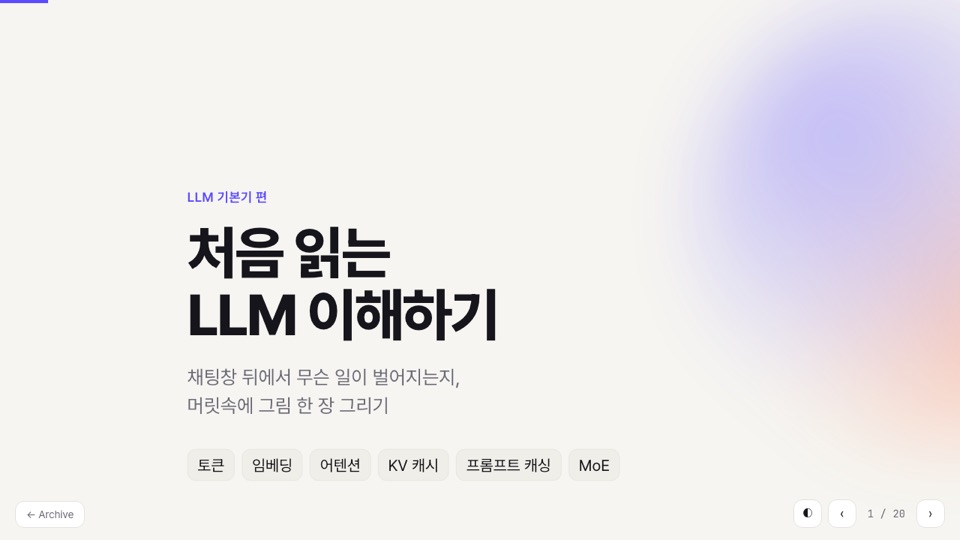
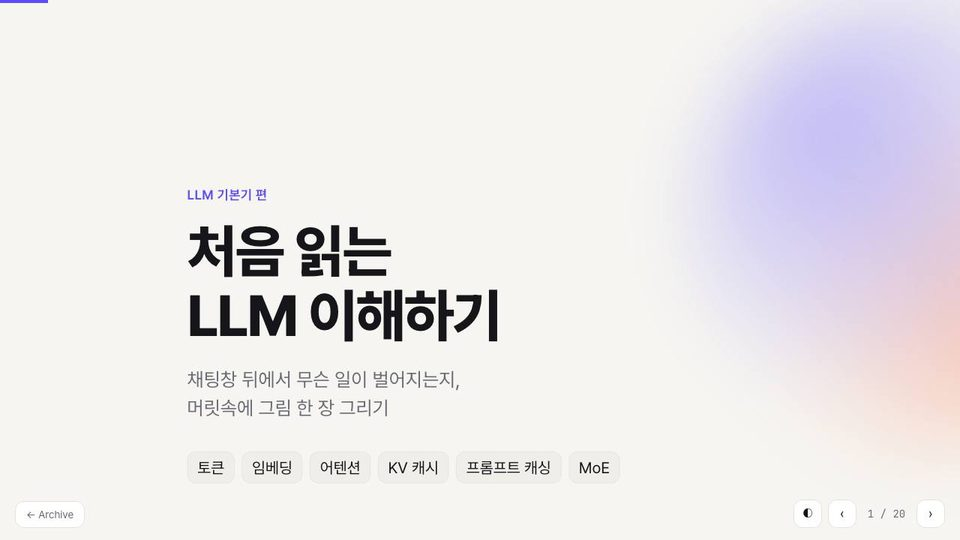
Paperlogy for LLM cover titles and all slide titles
LLM 이해하기 (스크롤형) cover title, and every h1/h2 in the three slide
decks (AI trends, LLM 이해하기, 처음 읽는 LLM 이해하기) now use Paperlogy
ExtraBold/Bold. Thumbnails regenerated.

diff --git a/llm-slides/index.html b/llm-slides/index.html
@@ -73,9 +73,14 @@ body { margin: 0; background: var(--bg); color: var(--ink); font-family: var(--b
 
 .kicker { font-family: var(--mono); font-size: 19px; color: var(--accent); letter-spacing: .06em; display: flex; align-items: center; gap: 14px; }
 .kicker b { font-weight: 600; padding: 4px 12px; border-radius: 999px; background: var(--accent-soft); }
-h1 { font-family: var(--display); font-size: 132px; line-height: 1.04; letter-spacing: -.045em; font-weight: 800; margin: 0; text-wrap: balance; }
-h2 { font-family: var(--display); font-size: 56px; line-height: 1.16; letter-spacing: -.032em; font-weight: 750; margin: 18px 0 0; text-wrap: balance; }
+/* slide titles: Paperlogy (SIL OFL, via jsDelivr/project noonnu) */
+@font-face { font-family: "Paperlogy"; font-weight: 700; font-style: normal; font-display: swap; src: url("https://cdn.jsdelivr.net/gh/projectnoonnu/2408-3@1.0/Paperlogy-7Bold.woff2") format("woff2"); }
+h1 { font-family: "Paperlogy", var(--display); font-size: 132px; line-height: 1.1; letter-spacing: -.03em; font-weight: 800; margin: 0; text-wrap: balance; }
+h2 { font-family: "Paperlogy", var(--display); font-size: 56px; line-height: 1.2; letter-spacing: -.025em; font-weight: 700; margin: 18px 0 0; text-wrap: balance; }
 h1 em, h2 em { font-style: normal; color: var(--accent); }
+/* cover title: Paperlogy ExtraBold (SIL OFL, via jsDelivr/project noonnu) */
+@font-face { font-family: "Paperlogy"; font-weight: 800; font-style: normal; font-display: swap; src: url("https://cdn.jsdelivr.net/gh/projectnoonnu/2408-3@1.0/Paperlogy-8ExtraBold.woff2") format("woff2"); }
+h1.cover-title { font-family: "Paperlogy", var(--display); letter-spacing: -.03em; line-height: 1.1; }
 p { margin: 0; }
 .lead { font-size: 28px; line-height: 1.6; color: var(--muted); margin-top: 22px; max-width: 1260px; }
 .lead strong, .body strong { color: var(--ink); font-weight: 700; }
@@ -490,7 +495,7 @@ td.note { color: var(--muted); font-size: 19px; }
 <section class="slide title-slide" data-notes="AI(Artificial Intelligence)를 매일 쓰는 분들이 자주 묻는 기본기 질문에서 출발합니다. 어려운 건 없고, 비유를 많이 쓰되 오해를 부를 곳에서는 한계도 같이 말합니다.">
   <div class="glow g1"></div><div class="glow g2"></div>
   <div class="kicker"><b>LLM (Large Language Model)</b>14 chapters</div>
-  <h1 style="margin-top:28px">LLM <em>이해하기</em></h1>
+  <h1 class="cover-title" style="margin-top:28px">LLM <em>이해하기</em></h1>
   <p class="lead">채팅창 뒤에서 무슨 일이 벌어지는지. Token부터 Embedding, Attention, KV (Key-Value) Cache, Prompt Caching, MoE (Mixture of Experts)까지</p>
   <div class="ticker" aria-hidden="true"><div class="ticker-in" id="ticker"></div></div>
 </section>

diff --git a/llm-guide/index.html b/llm-guide/index.html
@@ -105,7 +105,9 @@ body::before { content: ""; position: fixed; inset: 0 0 auto; height: env(safe-a
 .hero-in { max-width: 1200px; margin: 0 auto; padding-block: 64px 56px; display: grid; grid-template-columns: minmax(0, 1.05fr) minmax(0, 1fr); gap: 48px; align-items: center; }
 .eyebrow { font-family: var(--mono); font-size: 12px; letter-spacing: .06em; color: var(--accent); display: inline-flex; gap: 10px; align-items: center; flex-wrap: wrap; }
 .eyebrow i { width: 6px; height: 6px; border-radius: 50%; background: var(--accent); box-shadow: 0 0 0 4px var(--accent-soft); }
-.hero h1 { font-family: var(--display); font-size: clamp(44px, 7vw, 76px); line-height: 1.05; letter-spacing: -.04em; font-weight: 800; margin: 16px 0 16px; text-wrap: balance; }
+/* cover title: Paperlogy ExtraBold (SIL OFL, via jsDelivr/project noonnu) */
+@font-face { font-family: "Paperlogy"; font-weight: 800; font-style: normal; font-display: swap; src: url("https://cdn.jsdelivr.net/gh/projectnoonnu/2408-3@1.0/Paperlogy-8ExtraBold.woff2") format("woff2"); }
+.hero h1 { font-family: "Paperlogy", var(--display); font-size: clamp(44px, 7vw, 76px); line-height: 1.1; letter-spacing: -.03em; font-weight: 800; margin: 16px 0 16px; text-wrap: balance; }
 .hero h1 em { font-style: normal; color: var(--accent); }
 .hero p.lede { font-size: 18px; color: var(--muted); margin: 0; max-width: 34em; }
 .meta { display: flex; flex-wrap: wrap; gap: 8px 18px; margin-top: 22px; font-size: 13px; color: var(--muted); font-family: var(--mono); }

diff --git a/llm-basics/index.html b/llm-basics/index.html
@@ -42,8 +42,12 @@ body{background:var(--bg);color:var(--ink);font-family:"Pretendard Variable",Pre
 
 .kicker{font-size:22px;font-weight:600;color:var(--accent);letter-spacing:.02em;display:flex;align-items:center;gap:14px}
 .kicker .num{font-family:"JetBrains Mono",monospace;font-size:18px;padding:4px 10px;border-radius:999px;background:var(--accent-soft)}
-h1{font-size:96px;line-height:1.08;font-weight:800;letter-spacing:-.035em}
-h2{font-size:60px;line-height:1.15;font-weight:750;letter-spacing:-.03em;margin-top:18px}
+/* slide titles: Paperlogy (SIL OFL, via jsDelivr/project noonnu) */
+@font-face { font-family: "Paperlogy"; font-weight: 800; font-style: normal; font-display: swap; src: url("https://cdn.jsdelivr.net/gh/projectnoonnu/2408-3@1.0/Paperlogy-8ExtraBold.woff2") format("woff2"); }
+@font-face { font-family: "Paperlogy"; font-weight: 700; font-style: normal; font-display: swap; src: url("https://cdn.jsdelivr.net/gh/projectnoonnu/2408-3@1.0/Paperlogy-7Bold.woff2") format("woff2"); }
+h1,h2{font-family:"Paperlogy","Pretendard Variable",Pretendard,sans-serif}
+h1{font-size:96px;line-height:1.12;font-weight:800;letter-spacing:-.03em}
+h2{font-size:60px;line-height:1.2;font-weight:700;letter-spacing:-.025em;margin-top:18px}
 h3{font-size:28px;font-weight:700;letter-spacing:-.01em}
 p,li{font-size:28px;line-height:1.55;color:var(--muted)}
 strong{color:var(--ink);font-weight:700}

diff --git a/ai-trends-2026-11/index.html b/ai-trends-2026-11/index.html
@@ -47,7 +47,11 @@
   .kicker { display: inline-flex; align-items: center; gap: 10px; font: 600 18px/1 Inter, sans-serif; letter-spacing: .14em; text-transform: uppercase; color: var(--gold); }
   .kicker::before { content: ""; width: 28px; height: 2px; background: currentColor; }
   h1, h2, h3 { margin: 0; font-weight: 700; letter-spacing: -.035em; }
-  h2 { font-size: 58px; line-height: 1.15; margin-top: 18px; }
+  h2 { font-size: 58px; line-height: 1.18; margin-top: 18px; }
+  /* slide titles: Paperlogy (SIL OFL, via jsDelivr/project noonnu) */
+  @font-face { font-family: "Paperlogy"; font-weight: 700; font-style: normal; font-display: swap; src: url("https://cdn.jsdelivr.net/gh/projectnoonnu/2408-3@1.0/Paperlogy-7Bold.woff2") format("woff2"); }
+  h1, h2 { font-family: "Paperlogy", "Pretendard Variable", Pretendard, Inter, sans-serif; letter-spacing: -.03em; }
+  h1 { font-weight: 800; }
   h2 em, h1 em { font-style: normal; color: var(--gold); }
   .lead { font-size: 25px; line-height: 1.6; color: var(--ink-2); margin: 18px 0 0; max-width: 1180px; }
   .lead b, .body b { color: var(--ink); font-weight: 600; }
